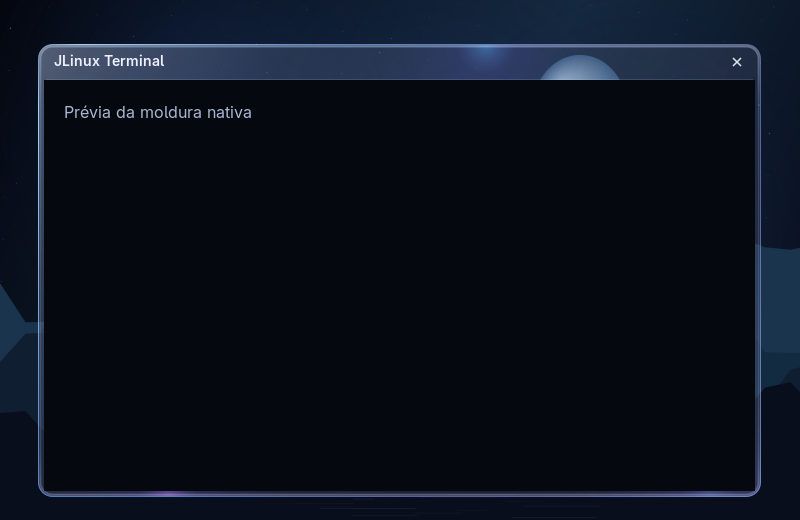
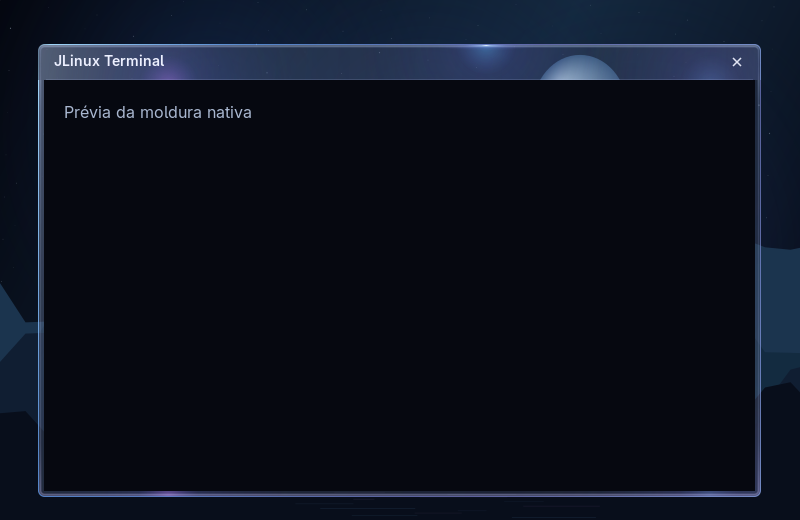
fix: keep glass window headers rectangular with subtle corners

diff --git a/src/renderer/window-frame.c b/src/renderer/window-frame.c
@@ -46,8 +46,10 @@ bool jlinux_window_frame_update(struct jlinux_window_frame *frame, int width, in
         buffers[i]->image = cairo_image_surface_create(CAIRO_FORMAT_ARGB32, boxes[i][2], boxes[i][3]);
         cairo_t *cr = cairo_create(buffers[i]->image);
         cairo_translate(cr, -boxes[i][0], -boxes[i][1]);
-        jlinux_glass_paint(cr, (struct ui_rect){.5, .5, full_width - 1, full_height - 1}, 14,
-            NULL, 0, 0, effects);
+        /* Extend the header below its strip so its lower edge stays square. */
+        int material_height = i == 0 ? header + JLINUX_FRAME_RADIUS : full_height;
+        jlinux_glass_paint(cr, (struct ui_rect){.5, .5, full_width - 1, material_height - 1},
+            JLINUX_FRAME_RADIUS, NULL, 0, 0, effects);
         if (i == 0) {
             cairo_save(cr); cairo_rectangle(cr, 16, 3, full_width - 70, header - 6); cairo_clip(cr);
             ui_text(cr, title ? title : "JLinux", 16, 8, 14, true, 0xedf0ff); cairo_restore(cr);

diff --git a/src/renderer/window-frame.h b/src/renderer/window-frame.h
@@ -2,7 +2,7 @@
 #define JLINUX_WINDOW_FRAME_H
 #include <wlr/types/wlr_scene.h>
 #include "../effects/glass.h"
-enum { JLINUX_FRAME_BORDER = 6, JLINUX_FRAME_HEADER = 36 };
+enum { JLINUX_FRAME_BORDER = 6, JLINUX_FRAME_HEADER = 36, JLINUX_FRAME_RADIUS = 6 };
 struct jlinux_window_frame {
     struct wlr_scene_buffer *parts[4];
 };

diff --git a/TASKS.md b/TASKS.md
@@ -148,3 +148,9 @@ Brilho do contorno externo na ponta esquerda da barra reduzido de 0,95 para 0,40
 - **BAR-GLINT · implementado:** três pontos de reflexão estática junto às bordas da barra, controlados por REFLECTION, sem animação/poll adicional.
 - **Validação local:** oito testes release e ASan/UBSan passaram, incluindo lifecycle das faixas e terminais reais com drag, fechar e resize confirmado por stty. Prévias dos componentes inspecionadas; não são screenshots de aplicativos nem aprovação visual do usuário.
 - **Limites:** interior dos apps não retematizado, sem blur nas molduras, máscara arredondada do conteúdo, maximização/minimização ou benchmark GPU/energia. Aplicativos sem negociação de decoração podem manter seu cabeçalho interno.
+
+## Cabeçalho retangular e cantos discretos — fix/rectangular-window-glass
+
+- Moldura comum a todos os xdg-toplevel: cabeçalho retangular de 36 px, vidro compartilhado com shell, reflexos e contorno iluminado. Raio externo reduzido de 14 para 6 px; parte inferior do cabeçalho mantém junção reta com o conteúdo.
+- Oito testes locais release e ASan/UBSan passaram; prévia do componente inspecionada e atualizada.
+- Sessão principal ainda executa compositor antigo. Aplicar molduras nela exige reiniciar o compositor, encerrando clientes existentes; não realizado sem autorização específica para encerrar a sessão. Prévia aninhada anterior não equivale à aplicação global na sessão principal.

diff --git a/docs/visual-style.md b/docs/visual-style.md
@@ -57,3 +57,7 @@ Altura atual: 36 px, margem de 6 px. A extremidade direita usa azul-violeta meno
 ### Molduras nativas
 
 Cabeçalho compacto de 36 px, título, fechar, transparência e bordas azul-violeta do material compartilhado. Janela sem foco recebe moldura mais discreta. Arraste pelo cabeçalho e resize pelas bordas esquerda/direita/inferior; Super+arraste permanece. Maximizar/minimizar, tema interno dos aplicativos e blur sobre janelas seguem pendentes. A barra superior ganhou reflexos estreitos em três pontos do contorno, conforme novo pedido do usuário.
+
+### Forma das janelas definida pelo usuário
+
+O cabeçalho das janelas permanece retangular, com vidro semelhante ao dock. Contorno iluminado azul-violeta e cantos externos com raio discreto de 6 px, sem formato de cápsula. A junção inferior do cabeçalho é reta. Essa regra vale para a moldura comum dos xdg-toplevel; o interior dos aplicativos não recebe tema forçado.
